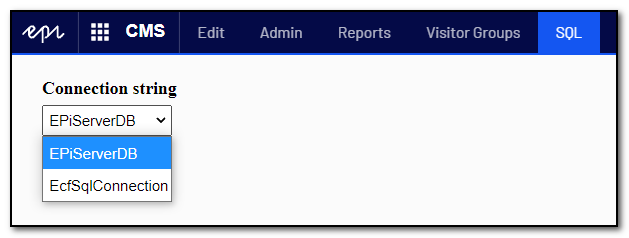
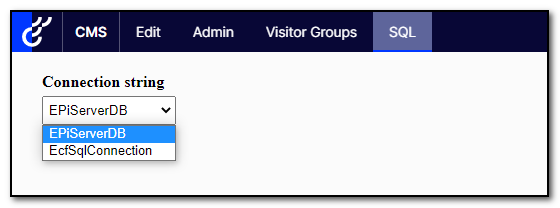
Update readme, add description of custom columns, update images for CMS 12

Changed region(s): [[0.0, 0.0288, 1.0, 0.9808], [0.0607, 0.3462, 0.3339, 0.8654], [0.2732, 0.5192, 0.3036, 0.5481]]

diff --git a/README.md b/README.md
@@ -10,7 +10,7 @@ This addon will let you query the database directly from Episerver user interfac
 
 Enter your query and execute it with the execute-button, just like in Microsoft SQL Management Studio.
 
-![Addon gui](img/gui.jpg)
+![Addon gui](img/gui.png)
 
 ## Installation
 The command below will install SqlStudio in your Optimizely project.
@@ -144,6 +144,19 @@ SELECT * FROM tblContentLanguage WHERE URLSegment LIKE '%.jpg'
 Saved queries will be displayed by category like this:
 
 ![Saved queries](img/saved-queries.jpg "Selecting a saved query")
+
+## Custom columns
+
+Although SQL might potentially be the optimal way of querying and manipulating your data, sometimes a little help is welcome. Using the inputs for custom culumns, it's possible to add two extra columns to your dataset. The columns are calculated from each row.
+* The content name
+* The content URL
+
+For each of the two columns you can specify what column from the previous query to use as the content id and (optional) language branch id. Behind the scenes `ContentLoader` will be run for each row, populating the custom column with Name or External URL.
+
+You may specify both the column header name and the placement (first, last etc).
+
+![Saved queries](img/custom-columns.png "Custom column input")
+
 
 ## Dependencies
 - [CodeMirror](https://codemirror.net/) is used for the editor, and basic IntelliSense.
